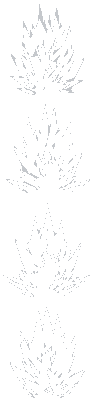
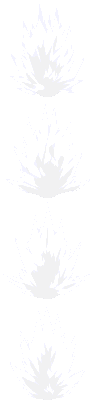
fixed homing

diff --git a/Projectiles/BlindingBladeProj.cs b/Projectiles/BlindingBladeProj.cs
@@ -1,10 +1,9 @@
-using Terraria;
-using Terraria.ID;
-using Terraria.ModLoader;
-using Microsoft.Xna;
+using System;
 using Microsoft.Xna.Framework;
 using Microsoft.Xna.Framework.Graphics;
-using System;
+using Terraria;
+using Terraria.ID;
+using Terraria.ModLoader;
 
 namespace DBZMOD.Projectiles
 {
@@ -12,6 +11,7 @@ namespace DBZMOD.Projectiles
     {
         public override void SetStaticDefaults()
         {
+			ProjectileID.Sets.Homing[projectile.type] = true;
             DisplayName.SetDefault("Blinding Blade");
         }
         public override void SetDefaults()
@@ -26,7 +26,7 @@ namespace DBZMOD.Projectiles
             projectile.hostile = false;
             projectile.aiStyle = 56; //perfect ai for gravless and rotation, useful for disks 
             projectile.light = 3f;
-            projectile.stepSpeed = 13; ;
+            projectile.stepSpeed = 13;
             ProjectileID.Sets.TrailCacheLength[projectile.type] = 6;
             ProjectileID.Sets.TrailingMode[projectile.type] = 0;
             projectile.netUpdate = true;
@@ -67,6 +67,14 @@ namespace DBZMOD.Projectiles
 
             }
         }
+		private void AdjustMagnitude(ref Vector2 vector)
+		{
+			float magnitude = (float)Math.Sqrt(vector.X * vector.X + vector.Y * vector.Y);
+			if (magnitude > 6f)
+			{
+				vector *= 6f / magnitude;
+        	}
+        }
 		public override void AI()
         {
             Vector2 move = Vector2.Zero;
@@ -86,6 +94,12 @@ namespace DBZMOD.Projectiles
                     }
                 }
             }
+			if (target)
+			{
+				AdjustMagnitude(ref move);
+				projectile.velocity = (3 * projectile.velocity + move);
+				AdjustMagnitude(ref projectile.velocity);
+			}
         }
     }
 }

diff --git a/Projectiles/RadialJavelinProj.cs b/Projectiles/RadialJavelinProj.cs
@@ -1,10 +1,9 @@
+using System;
+using Microsoft.Xna.Framework;
+using Microsoft.Xna.Framework.Graphics;
 using Terraria;
 using Terraria.ID;
 using Terraria.ModLoader;
-using Microsoft.Xna;
-using Microsoft.Xna.Framework;
-using Microsoft.Xna.Framework.Graphics;
-using System;
 
 namespace DBZMOD.Projectiles
 {
@@ -12,6 +11,7 @@ namespace DBZMOD.Projectiles
     {
         public override void SetStaticDefaults()
         {
+			ProjectileID.Sets.Homing[projectile.type] = true;
             DisplayName.SetDefault("Radial Javelin");
         }
         public override void SetDefaults()
@@ -55,9 +55,17 @@ namespace DBZMOD.Projectiles
                 }
             }
         }
+		private void AdjustMagnitude(ref Vector2 vector)
+		{
+			float magnitude = (float)Math.Sqrt(vector.X * vector.X + vector.Y * vector.Y);
+			if (magnitude > 6f)
+			{
+				vector *= 6f / magnitude;
+        	}
+        }
         public override void AI()
         {
-            Vector2 move = Vector2.Zero;
+			Vector2 move = Vector2.Zero;
             float distance = 400f;
             bool target = false;
             for (int k = 0; k < 200; k++)
@@ -74,6 +82,12 @@ namespace DBZMOD.Projectiles
                     }
                 }
             }
+			if (target)
+			{
+				AdjustMagnitude(ref move);
+				projectile.velocity = (3 * projectile.velocity + move) / 11f;
+				AdjustMagnitude(ref projectile.velocity);
+			}
         }
     }
 }

diff --git a/Projectiles/Auras/BaseAuraProj.cs b/Projectiles/Auras/BaseAuraProj.cs
@@ -31,6 +31,7 @@ namespace DBZMOD.Projectiles.Auras
             projectile.netUpdate = true;
             AuraOffset.Y = -24;
 			projectile.light = 1f;
+			projectile.alpha = 240;
         }
         public override void AI()
         {
